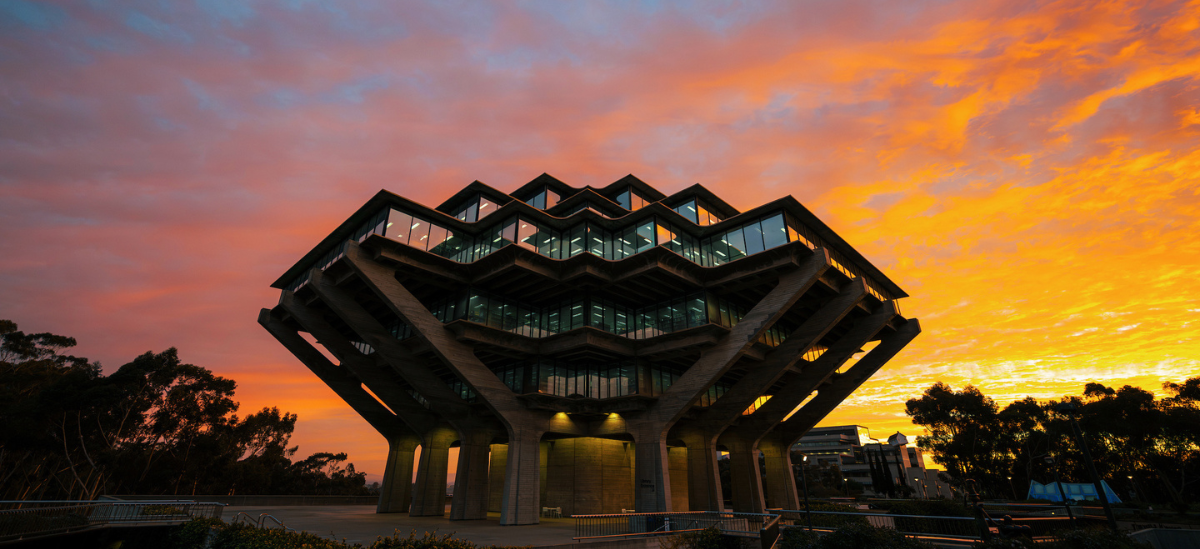
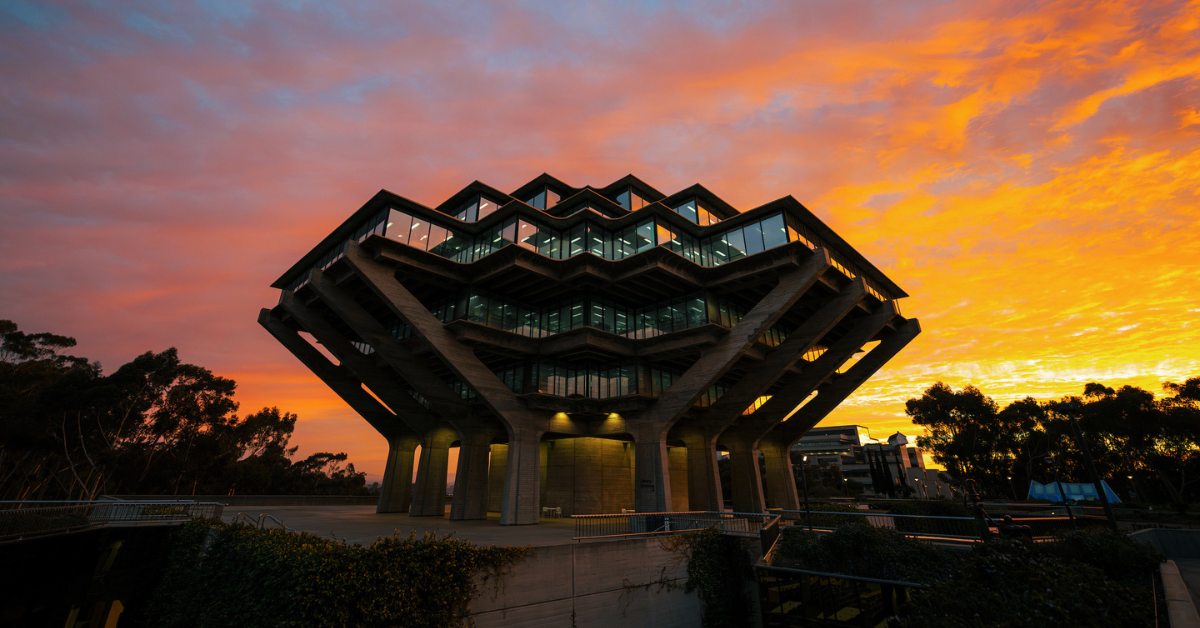
Modified parallax-container-1

diff --git a/style.css b/style.css
@@ -672,6 +672,7 @@ div.image-container figure:only-child {
 
 .parallax-container-1 {
     background-image: url('./images/ucsd_lib2.png');
+    background-position: 50% 5vh;
 }
 
 
@@ -860,6 +861,7 @@ div.footer-bottom p {
 
     .parallax-container {
         background-attachment: scroll;
+        background-position: center;
         margin: 30% 0;
         height: 25vh;
     }
